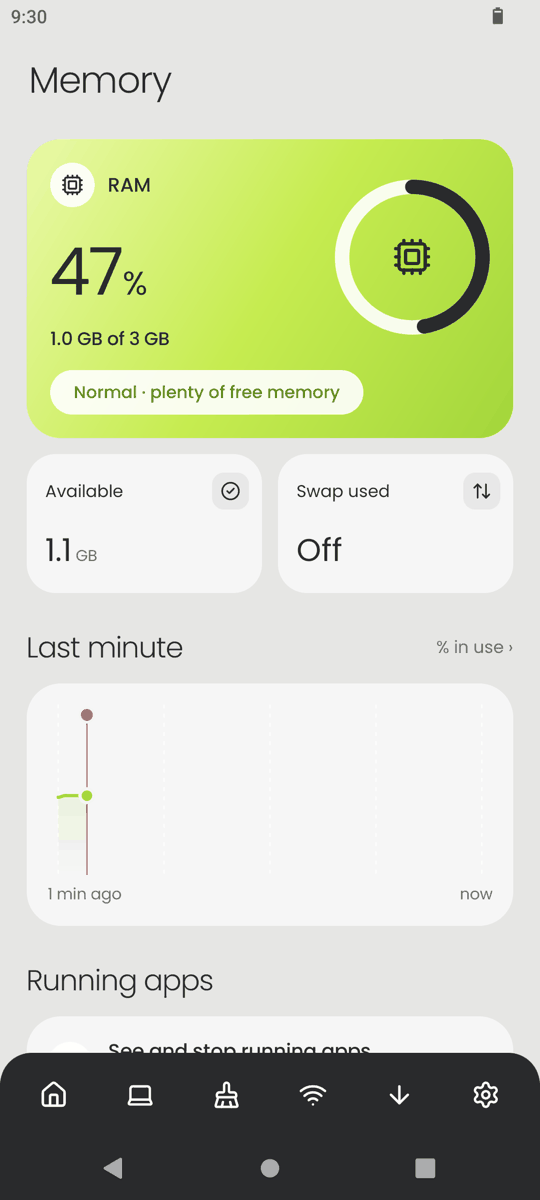
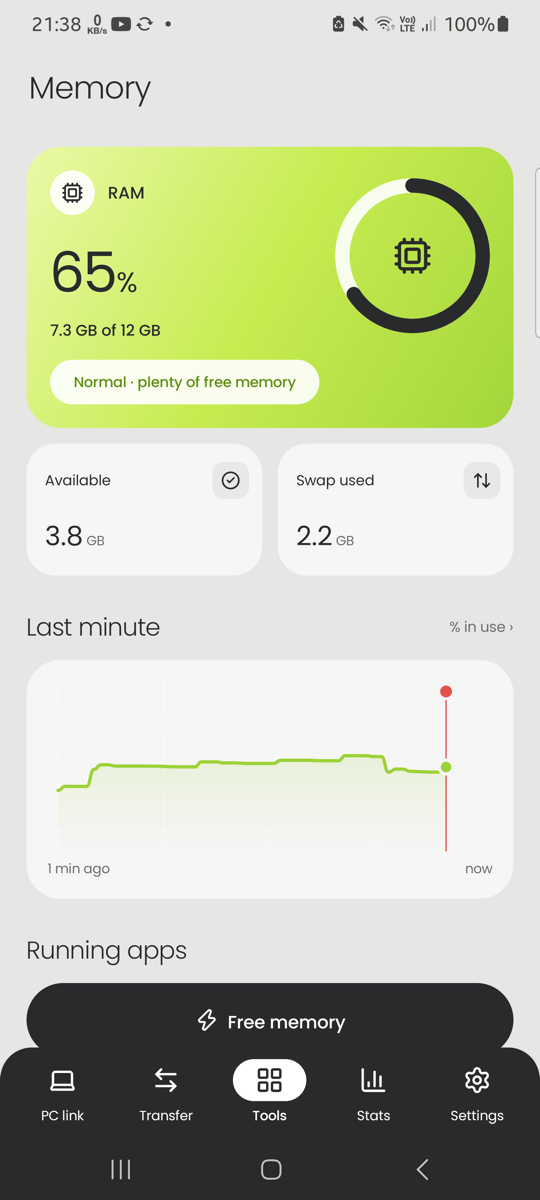
Retake the guide's screenshots on a real phone
All screens again, on a Samsung Galaxy S20 (Android 13) with Blur
personal data on; the photo thumbnails on Recover are blurred too. New:
Tools, Transfer, Stats, Recover and F-Droid.

diff --git a/docs/USER_GUIDE.md b/docs/USER_GUIDE.md
@@ -8,7 +8,7 @@ Andromon Companion is the phone side of [Andromon](https://github.com/Deshan555/
 
 This guide shows every screen and explains what each option does. The PC app has its own guide: [Andromon user guide](https://github.com/Deshan555/Andromon_PC/blob/main/docs/USER_GUIDE.md).
 
-The screenshots were taken on an Android 12 emulator with made-up sample data.
+The screenshots were taken on a real phone (Samsung Galaxy S20, Android 13) with **Blur personal data** turned on (Settings › Display › Privacy). The photo thumbnails on the Recover screen were blurred as well.
 
 ## Contents
 
